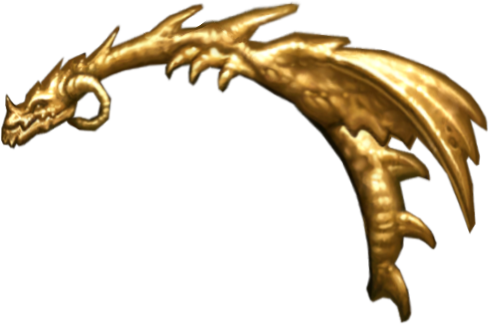
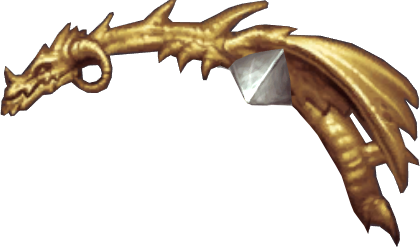
Add correct elite weapon assets

diff --git a/src/WeaponCard.ts b/src/WeaponCard.ts
@@ -26,12 +26,12 @@ export default class WeaponCard extends Card {
 	public baseRarityGemAsset = "rarity-weapon-";
 	public dragonAsset = "elite-weapon";
 	public dragonCoords = {
-		dx: 184,
-		dy: 89,
-		dWidth: 455,
-		dHeight: 315,
-		sWidth: 455,
-		sHeight: 315,
+		dx: 199,
+		dy: 62,
+		dWidth: 420,
+		dHeight: 247,
+		sWidth: 420,
+		sHeight: 247,
 	};
 	public attackGemAsset = "attack-weapon";
 	public healthGemAsset = "durability";

diff --git a/src/WeaponCardPremium.ts b/src/WeaponCardPremium.ts
@@ -25,11 +25,11 @@ export default class WeaponCardPremium extends WeaponCard {
 	public healthGemAsset = "durability-premium";
 	public dragonAsset = "elite-weapon-premium";
 	public dragonCoords = {
-		dx: 164,
-		dy: 69,
-		dWidth: 489,
-		dHeight: 334,
-		sWidth: 489,
-		sHeight: 334,
+		dx: 197,
+		dy: 63,
+		dWidth: 420,
+		dHeight: 247,
+		sWidth: 420,
+		sHeight: 247,
 	};
 }
